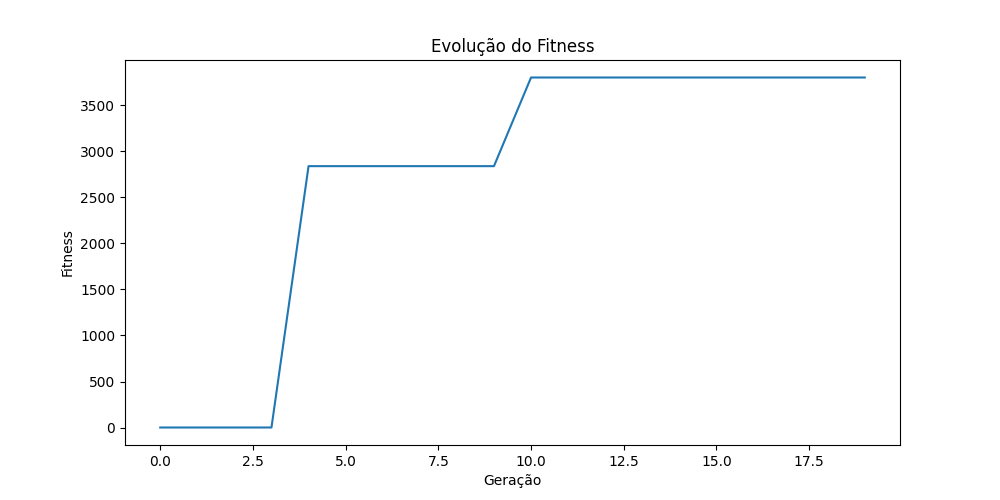
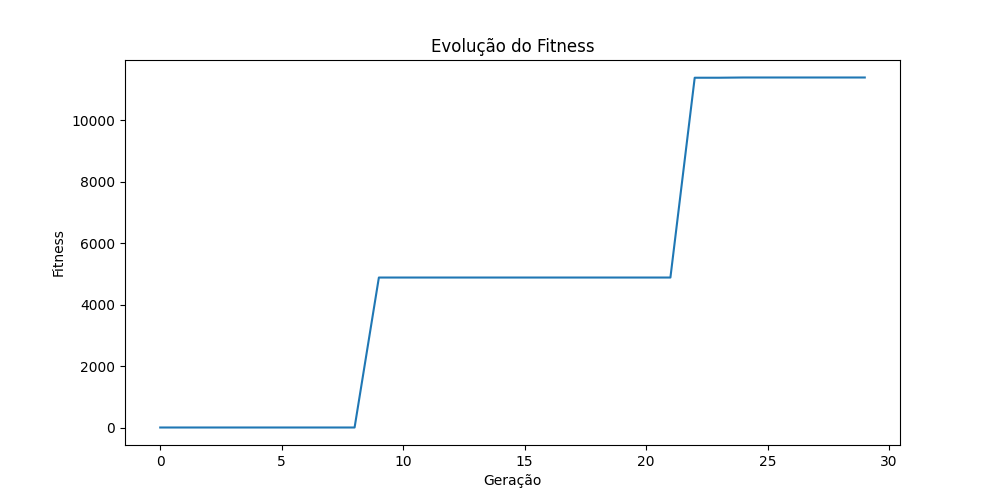
penalizando mais por erros , e aumentando a quantidade de geracoes e tambem o tamanho da populacao

diff --git a/robo_exercicio.py b/robo_exercicio.py
@@ -564,7 +564,7 @@ class IndividuoPG:
         terminal = random.choices(
             ['dist_recurso', 'angulo_recurso', 'dist_meta', 'angulo_meta',
              'dist_obstaculo', 'energia', 'velocidade', 'meta_atingida', 'constante'],
-            weights=[10, 8, 6, 6, 12, 5, 5, 2, 3],
+            weights=[12, 10, 6, 6, 15, 5, 5, 2, 3],
             k=1
         )[0]
 
@@ -602,7 +602,7 @@ class IndividuoPG:
                 elif op == '*':
                     resultado = esquerda * direita
                 elif op == '/':
-                    resultado = esquerda / direita if direita != 0 else 0
+                    resultado = esquerda / direita if abs(direita) > 0.001 else 0
                 elif op == 'max':
                     resultado = max(esquerda, direita)
                 elif op == 'min':
@@ -676,8 +676,9 @@ class IndividuoPG:
         return individuo
 
 
+
 class ProgramacaoGenetica:
-    def __init__(self, tamanho_populacao=40, profundidade=5):
+    def __init__(self, tamanho_populacao=30, profundidade=5):
         self.tamanho_populacao = tamanho_populacao
         self.profundidade = profundidade
         self.populacao = [IndividuoPG(profundidade) for _ in range(tamanho_populacao)]
@@ -713,16 +714,16 @@ class ProgramacaoGenetica:
                 recursos_nao_coletados = estado['recursos_restantes']
 
                 fitness_tentativa = (
-                    robo.recursos_coletados * 1200 +  # Prioriza recursos
-                    (2000 if (robo.meta_atingida and recursos_nao_coletados == 0) else 0) +  # Só ganha bônus se coletou tudo
-                    robo.energia * 2 + 
-                    robo.distancia_percorrida * 0.2 - 
-                    robo.colisoes * 100 - 
-                    recursos_nao_coletados * 1500  # Forte penalização se não coletou tudo
+                    robo.recursos_coletados * 1500 +
+                    (2500 if (robo.meta_atingida and recursos_nao_coletados == 0) else 0) +
+                    robo.energia * 2 +
+                    robo.distancia_percorrida * 0.5 -
+                    robo.colisoes * 1200 -  # 🔥 Penalização muito mais forte para colisões
+                    recursos_nao_coletados * 1500
                 )
 
                 if recursos_nao_coletados > 0 and robo.meta_atingida:
-                    fitness_tentativa -= 1000  # Penalidade severa
+                    fitness_tentativa -= 1200  # 🔥 Penalidade por atingir meta sem pegar tudo
 
                 fitness += max(1, fitness_tentativa)
 
@@ -743,7 +744,7 @@ class ProgramacaoGenetica:
 
         return selecionados
 
-    def evoluir(self, n_geracoes=10):
+    def evoluir(self, n_geracoes=20):
         for geracao in range(n_geracoes):
             print(f"\n🧬 Geração {geracao + 1}/{n_geracoes}")
             self.avaliar_populacao()
@@ -753,7 +754,7 @@ class ProgramacaoGenetica:
 
             selecionados = self.selecionar()
 
-            nova_populacao = [self.melhor_individuo]
+            nova_populacao = [self.melhor_individuo]  # Elitismo
 
             while len(nova_populacao) < self.tamanho_populacao:
                 pai1, pai2 = random.sample(selecionados, 2)
@@ -778,8 +779,8 @@ if __name__ == "__main__":
     # Criar e treinar o algoritmo genético
     print("Treinando o algoritmo genético...")
     # PARÂMETROS PARA O ALUNO MODIFICAR
-    pg = ProgramacaoGenetica(tamanho_populacao=20, profundidade=4)
-    melhor_individuo, historico = pg.evoluir(n_geracoes=20)
+    pg = ProgramacaoGenetica(tamanho_populacao=40, profundidade=5)
+    melhor_individuo, historico = pg.evoluir(n_geracoes=30)
     
     # Salvar o melhor indivíduo
     print("Salvando o melhor indivíduo...")
